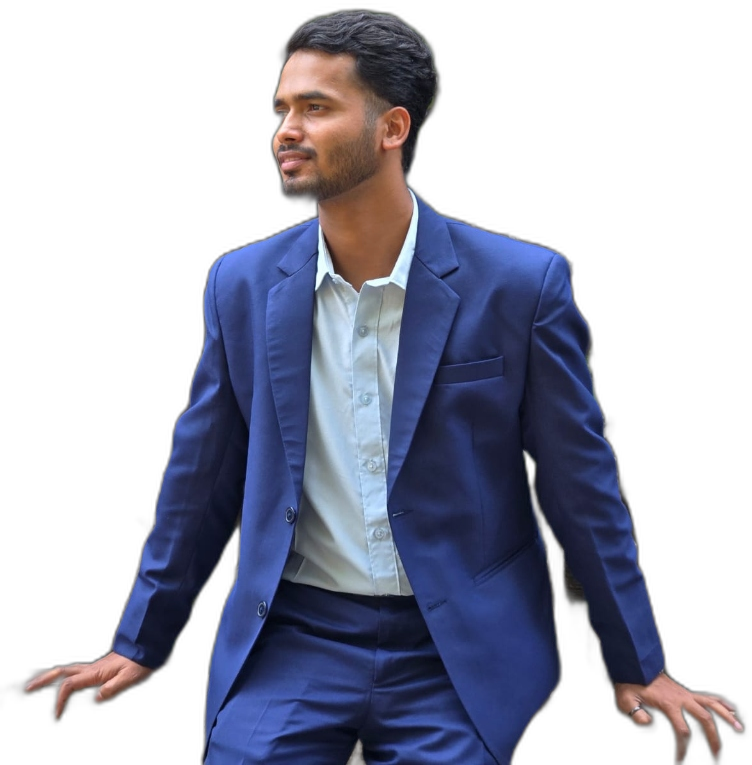
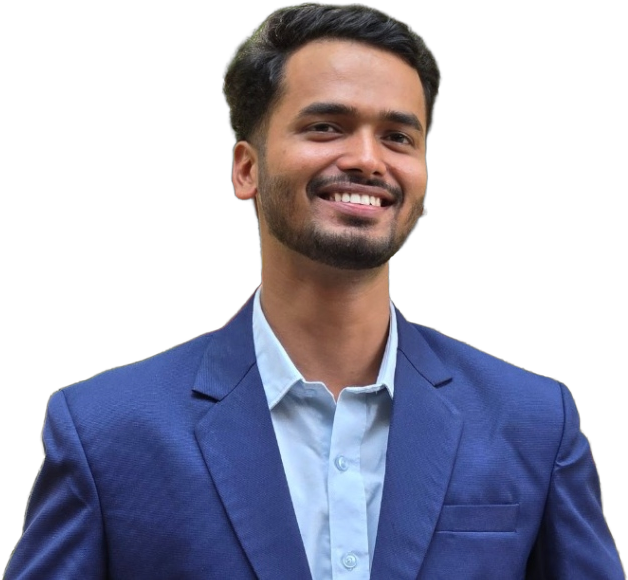
Update Kabeer cutout to cropped portrait image with smaller refined sizing

diff --git a/index.html b/index.html
@@ -1501,18 +1501,18 @@
     }
 
     .kabeer-signoff-cutout {
-      height: clamp(170px, 24vw, 240px);
+      height: clamp(120px, 16vw, 165px);
       width: auto;
-      max-width: 220px;
+      max-width: 175px;
       object-fit: contain;
-      filter: drop-shadow(0 12px 28px rgba(0, 0, 0, 0.6)) drop-shadow(0 0 20px rgba(244, 180, 170, 0.25));
+      filter: drop-shadow(0 10px 24px rgba(0, 0, 0, 0.6)) drop-shadow(0 0 16px rgba(244, 180, 170, 0.25));
       transition: transform 0.4s cubic-bezier(0.34, 1.56, 0.64, 1);
       user-select: none;
       -webkit-user-drag: none;
     }
 
     .kabeer-signoff-cutout:hover {
-      transform: translateY(-5px) scale(1.03);
+      transform: translateY(-4px) scale(1.04);
     }
 
     @media (max-width: 600px) {
@@ -1524,8 +1524,8 @@
         font-size: 1.25rem;
       }
       .kabeer-signoff-cutout {
-        height: clamp(135px, 32vw, 180px);
-        max-width: 145px;
+        height: clamp(95px, 24vw, 130px);
+        max-width: 130px;
       }
     }
 
@@ -2364,7 +2364,7 @@
                   </p>
                 </div>
                 <div class="letter-signoff-cutout-wrap" title="Kabeer">
-                  <img src="pictures_cutouts/kabeer_cutout.png?v=1" alt="Kabeer" class="kabeer-signoff-cutout" />
+                  <img src="pictures_cutouts/kabeer_cutout.png?v=2" alt="Kabeer" class="kabeer-signoff-cutout" />
                 </div>
               </div>
             </div>
